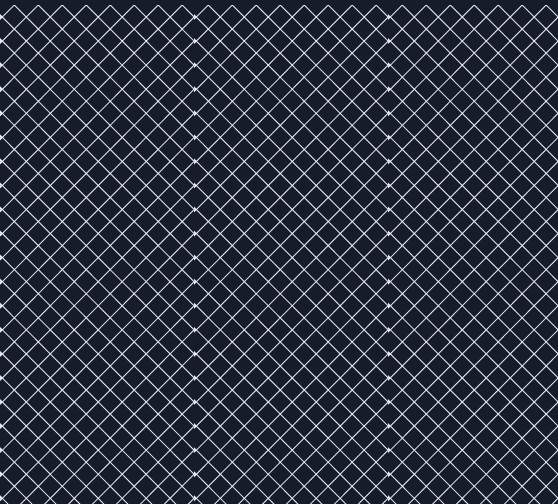
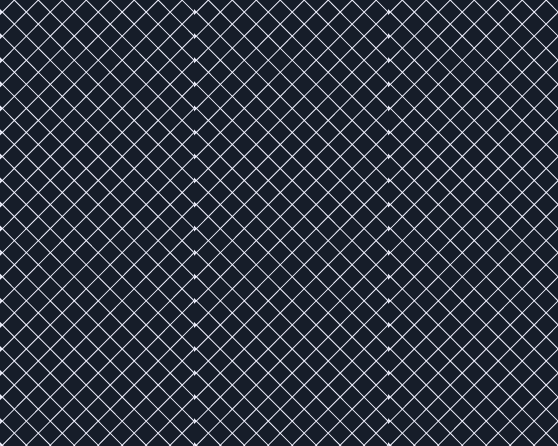
changes some images width

diff --git a/src/Components/Template.js b/src/Components/Template.js
@@ -2,8 +2,7 @@ import LoginForm from "./LoginForm";
 import SignupForm from "./SignupForm";
 import { FcGoogle } from "react-icons/fc";
 import frame from "../Assets/images/frame.png";
-import loginImg from "../Assets/images/login.jpg";
-import signupImg from "../Assets/images/signup.jpg";
+import Auth from "../Assets/images/auth.jpg";
 
 const Template = ({ title, desc1, desc2, formtype }) => {
   return (
@@ -38,7 +37,7 @@ const Template = ({ title, desc1, desc2, formtype }) => {
 
       <div className="hidden md:block relative w-11/12 max-w-[450px] z-9">
         <img width={558} height={504} src={frame} alt="background"/>
-        {formtype==="login" ? ( <img className="absolute -top-4 right-4" width={558} height={504} src={loginImg} alt="background" />) : (<img className="absolute -top-4 right-4" width={558} height={504} src={signupImg} alt="background" />)}
+        {formtype==="login" ? ( <img className="absolute -top-4 right-4 object-contain" width={558} height={504} src={Auth} alt="background" />) : (<img className="absolute -top-4 right-4" width={558} height={504} src={Auth} alt="background" />)}
       </div>
     </div>
   );

diff --git a/src/Pages/SignUp.js b/src/Pages/SignUp.js
@@ -5,8 +5,8 @@ function SignUp() {
   return (
     <div className="mt-10 md:mt-0 min-h-screen">
       <Template
-        title="Latest trends in Fashion. Easy & Fast Delivery. Great Offers."
-        desc1="Free shipping on any items. Get the best of Shopping and Entertainment with Ecomzy..."
+        title="We are always here to serve you.. Easy & Fast Delivery. Great Offers."
+        desc1="If you really want to make a friend, go to someone's house and eat with him... the people who give you their food give you their heart."
         desc2="Enjoy low prices and great deals."
         formtype="signup"
       />

diff --git a/src/Pages/Login.js b/src/Pages/Login.js
@@ -6,8 +6,8 @@ function Login() {
     <div className="mt-10 md:mt-[0px] min-h-screen">
       <Template
         title="Welcome Back"
-        desc1="Free shipping on any items. Get the best of Shopping and Entertainment with Ecomzy.."
-        desc2="Enjoy low prices an great deals."
+        desc1="Tell me what you eat, and I will tell you what you are."
+        desc2="Enjoy low prices foods."
         formtype="login"
       />d
     </div>
